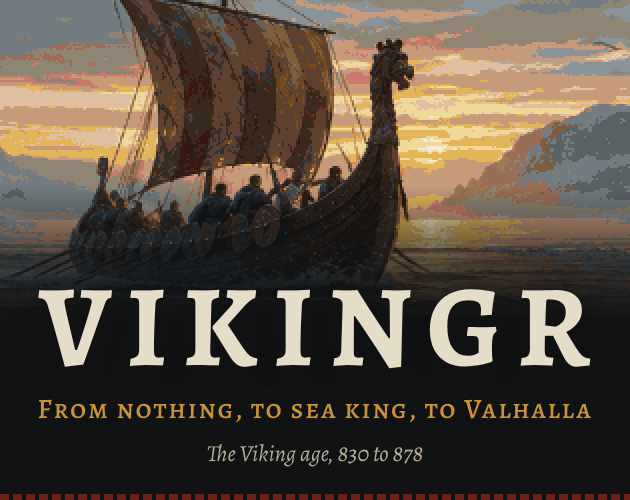
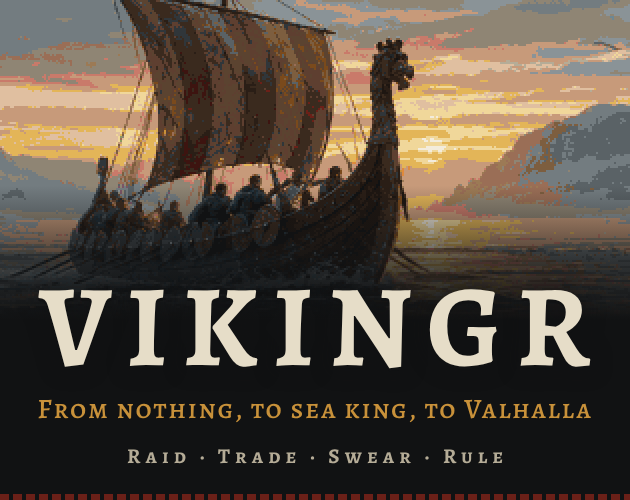
The rating ask, the renamed itch account, and The Lists' verb row on the cover
Game-Workshop's new store rules (game-release references/store-page.md), first
carried by Vikingr before its launch:

- The rating ask, twice, once each (src/ui/components/RateAsk.tsx): on the hall
  screen in the saga's first winter, and on its first death screen (a son can
  carry the saga on, so not at every death). One line and a link, "Not now"
  closes it for good; remembered in the save (_rate_first, _rate_end).
  Proved in the built game at 390 px: each shown, kept over a reload, gone for
  good after "Not now"; the winter ask did not return through four more winters
  (832 to 836). No errors.
- The itch page moves to https://heirs-of-ruin.itch.io/vikingr (FULL_GAME_URL,
  the one place it is written): the account was renamed from edmodo1.
- The cover gains The Lists' verb row, "Raid · Trade · Swear · Rule", in place of
  the date line; checked at 315 x 250. The short description follows the same
  shape: the verbs, then the arc (102 characters).
- tools/check-store.mjs from the kit: clean (links, both asks, short description).

npm run check green (typecheck, tests, validate, style lint, scan, continuity,
gauntlet, bot 100 lives x 10 years). Demo, download and browser zips rebuilt.

Claude-Session: https://claude.ai/code/session_01YKkU5fcEMQgYro21NFQmg7

Changed region(s): [[0.3317, 0.87, 0.8143, 0.93], [0.181, 0.9, 0.3016, 0.93]]

diff --git a/src/ui/App.tsx b/src/ui/App.tsx
@@ -20,6 +20,7 @@ import { Makeup } from './components/Makeup';
 import { SceneArt } from './scene/SceneArt';
 import { DemoEnd } from './components/DemoEnd';
 import { demoOver, FULL_GAME_URL } from './demo';
+import { RateAsk } from './components/RateAsk';
 
 type Tab = 'now' | 'map' | 'hero' | 'crew' | 'home' | 'saga';
 const TABS: { id: Tab; label: string }[] = [
@@ -282,6 +283,13 @@ export function App({ content, map }: { content: ContentBundle; map: MapData }) 
     return <div class="app"><DemoEnd content={content} state={state} onTitle={() => toTitle()} /></div>;
   }
   const screen = screenOf(state);
+  // the rating ask, once each (RateAsk.tsx): the first winter of the saga in the hall, and its first death.
+  // _rate_first holds the day it was first shown, so it stays for that winter and never comes back; -1 is "closed".
+  const firstWinter = screen === 'hall' && !preview && (!state.flags._rate_first || (state.flags._rate_first > 0 && state.day - state.flags._rate_first < 180));
+  const firstEnd = !!state.death && !preview && (!state.flags._rate_end || state.flags._rate_end === state.death.day);
+  const markRate = (k: '_rate_first' | '_rate_end', v: number) => setState((s) => s && { ...s, flags: { ...s.flags, [k]: v } });
+  if (firstWinter && !state.flags._rate_first) queueMicrotask(() => markRate('_rate_first', state.day));
+  if (firstEnd && !state.flags._rate_end) queueMicrotask(() => markRate('_rate_end', state.death!.day));
   const busy = !['place', 'hall', 'muster', 'return'].includes(screen);
   const untold = untoldCount(state);
   const where = state.at ? content.places[state.at]?.name : state.voyage ? `Bound for ${content.places[state.voyage.to]?.name}` : '';
@@ -301,6 +309,9 @@ export function App({ content, map }: { content: ContentBundle; map: MapData }) 
       <main>
         {error && <p class="card small sans">{error}</p>}
         {notice && <p class="card small sans" onClick={() => setNotice('')}>{notice} <span class="muted">(tap to close)</span></p>}
+        {/* rate:first-stop (the first winter's hall) and rate:end (the saga's first death): tools/check-store.mjs */}
+        {tab === 'now' && !sheet && firstWinter && <RateAsk at="first-stop" onClose={() => markRate('_rate_first', -1)} />}
+        {tab === 'now' && !sheet && firstEnd && <RateAsk at="end" onClose={() => markRate('_rate_end', -1)} />}
         {!__RELEASE__ && preview && <p class="note small sans">Playtest chapter: not saved.</p>}
         {sheet === 'help' ? <HowToPlay onBack={() => setSheet(null)} /> : sheet === 'about' ? <About onBack={() => setSheet(null)} /> : (
           <Guard key={tab} onSave={() => encodeSaveCode(toSave(state, content))} onTitle={() => toTitle()}>

diff --git a/tools/make-press.ts b/tools/make-press.ts
@@ -339,8 +339,9 @@ html,body{margin:0;background:var(--soot)}
 .band{position:absolute;left:0;right:0;bottom:0;height:6px;background:repeating-linear-gradient(90deg,var(--rune-red-dark) 0 9px,var(--soot) 9px 13px)}
 h1{position:absolute;left:0;right:0;top:268px;margin:0;text-align:center;font:700 116px/1 'Alegreya SC',serif;letter-spacing:.12em;padding-left:.12em;color:var(--bone);text-shadow:0 3px 0 var(--soot),0 0 22px rgba(17,18,19,.95)}
 .sub{position:absolute;left:0;right:0;top:394px;text-align:center;font:500 28px/1.1 'Alegreya SC',serif;letter-spacing:.06em;color:var(--ochre)}
-.era{position:absolute;left:0;right:0;top:442px;text-align:center;font:italic 400 23px/1 'Alegreya',serif;color:var(--bone-dim)}
-</style></head><body><div class="c"><div class="pic"></div><h1>VIKINGR</h1><div class="sub">From nothing, to sea king, to Valhalla</div><div class="era">The Viking age, 830 to 878</div><div class="band"></div></div></body></html>`;
+/* the verb row (The Lists' cover, Game-Workshop store-page.md): four things you do, readable at 315 x 250 */
+.verbs{position:absolute;left:0;right:0;top:446px;text-align:center;font:700 21px/1 'Alegreya SC',serif;letter-spacing:.24em;padding-left:.24em;color:var(--bone-dim)}
+</style></head><body><div class="c"><div class="pic"></div><h1>VIKINGR</h1><div class="sub">From nothing, to sea king, to Valhalla</div><div class="verbs">Raid · Trade · Swear · Rule</div><div class="band"></div></div></body></html>`;
   const browser = await launch();
   try {
     const page = await browser.newPage({ viewport: { width: 630, height: 500 }, deviceScaleFactor: 1 });

diff --git a/src/ui/components/RateAsk.tsx b/src/ui/components/RateAsk.tsx
@@ -1,0 +1,18 @@
+// The rating ask (Game-Workshop game-release references/store-page.md, F39): one line and a link, at the first
+// natural stopping point (the first winter in the hall) and at the end (the first death of the saga), each once.
+// The markers data-rate="first-stop" / data-rate="end" are what tools/check-store.mjs looks for.
+import { FULL_GAME_URL } from '../demo';
+
+const LINES = {
+  'first-stop': 'If you are enjoying Vikingr, a rating on itch.io helps other people find it.',
+  end: 'If this life stayed with you, a rating on itch.io helps other people find Vikingr.',
+} as const;
+
+export function RateAsk({ at, onClose }: { at: 'first-stop' | 'end'; onClose: () => void }) {
+  return (
+    <p class="card small sans rate-ask" data-rate={at}>
+      {LINES[at]} <a href={FULL_GAME_URL} target="_blank" rel="noopener">Rate it on itch.io</a>
+      {' '}<button class="linkbtn" onClick={onClose}>Not now</button>
+    </p>
+  );
+}

diff --git a/src/ui/demo.ts b/src/ui/demo.ts
@@ -8,7 +8,8 @@ import { dayOf } from '../engine/calendar';
 
 export const DEMO_END_DAY = dayOf(832, 59); // 1 March 832
 
-/** The full game's page: the end screen and the title link to it. Set before the demo is uploaded. */
-export const FULL_GAME_URL = 'https://edmodo1.itch.io/vikingr';
+/** The game's itch page on the account (renamed from edmodo1 to Heirs of Ruin, 2026-11-21): the demo's end screen,
+ *  the title and the rating ask all link here. The one place the address is written. */
+export const FULL_GAME_URL = 'https://heirs-of-ruin.itch.io/vikingr';
 
 export const demoOver = (day: number): boolean => __DEMO__ && day >= DEMO_END_DAY;

diff --git a/store/ITCH.md b/store/ITCH.md
@@ -40,7 +40,7 @@ screen held after a reload, and each code loaded into the full game, which playe
 ## Uploads: Plan B, two pages (if the demo will not play free on a paid page)
 
 - **"Vikingr (demo)"**, free (No payments): the demo zip played in the browser. In its description, a line and a
-  link: "The full game: [Vikingr](https://edmodo1.itch.io/vikingr)".
+  link: "The full game: [Vikingr](https://heirs-of-ruin.itch.io/vikingr)".
 - **"Vikingr"**, paid as above: the download zip and the APK. Its description links back to the demo page.
 - In `src/ui/demo.ts`, `FULL_GAME_URL` already points at the paid page; if the paid page's address differs,
   change it and rebuild the demo.
@@ -60,7 +60,7 @@ screen held after a reload, and each code loaded into the full game, which playe
 | Tags | historical, vikings, medieval, life-simulation, text-based, interactive-fiction, choices-matter, rpg, turn-based, pixel-art |
 | Cover | `store/cover.png` (630 x 500). `cover-315.png` is only for checking it at listing size; do not upload it. |
 | Screenshots | In order: `shot-1-story.png`, `shot-2-map.png`, `shot-3-battle.png`, `shot-4-plunder.png`, `shot-5-lords.png` |
-| Short description | `store/short-description.txt` |
+| Short description | `store/short-description.txt`: the verbs, then the arc (The Lists' shape, Game-Workshop `store-page.md`) |
 | Description | `store/description.html`, pasted with the <> (HTML) button |
 | Content | Violence, death and slavery: say so in the description (it does) and in itch's content questionnaire |
 | Community | Comments on, so players can post save codes with bug reports |
@@ -93,6 +93,7 @@ refused: 4 typefaces loaded from the file, a life loaded and played, no outside 
 
 ## Before going public
 
+- [ ] `node tools/check-store.mjs --slug=vikingr` clean (Game-Workshop game-release): links on heirs-of-ruin.itch.io, both rating asks
 - [ ] `npm run check` green on the commit being released
 - [ ] The three files built from that commit (demo zip, download zip, APK from GitHub)
 - [ ] The draft opened logged out in a private window: the demo plays on the page; Plan A or B decided
